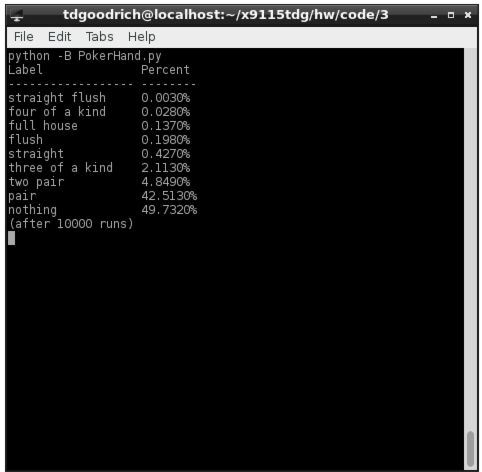
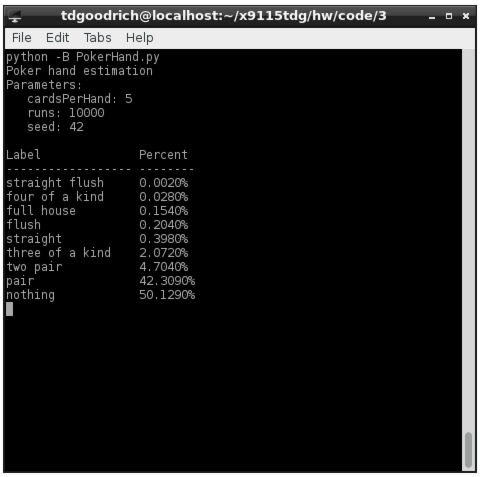
Finished CODE3

Changed region(s): [[0.0, 0.0, 1.0, 1.0], [0.9688, 0.8898, 1.0, 0.9195], [0.1875, 0.5042, 0.2188, 0.5339]]

diff --git a/hw/code/3/PokerHand.py b/hw/code/3/PokerHand.py
@@ -135,7 +135,11 @@ class PokerHand(Hand):
                 self.label = name
                 return
 
-def estimateProbabilities(cardsPerHand=5, runs=1000):
+def estimateProbabilities(cardsPerHand=5, runs=1000, seed=42):
+    random.seed(seed)
+    print "Poker hand estimation"
+    print "Parameters:\n   cardsPerHand: %d\n   runs: %d\n   seed: %d\n" %(cardsPerHand, runs, seed)
+
     # Prep a result dict
     result = {}
     for label in PokerHand.handLabels:
@@ -154,14 +158,11 @@ def estimateProbabilities(cardsPerHand=5, runs=1000):
         result[key] = value/(runs*(10.0))*100
     return result
 
-def nicePrint(result, runs=None):
+def nicePrint(result):
     print "%-18s %-8s\n%-18s %-8s" % ("Label", "Percent", "-"*18, "-"*8)
     for label in PokerHand.handLabels:
         print "%-18s %0.4f%%" % (label, result[label])
-    if runs != None:
-        print "(after %d runs)" % runs
-
 
 if __name__ == '__main__':
     runs = 10000
-    nicePrint(estimateProbabilities(runs=runs), runs=runs)
+    nicePrint(estimateProbabilities(runs=runs))
